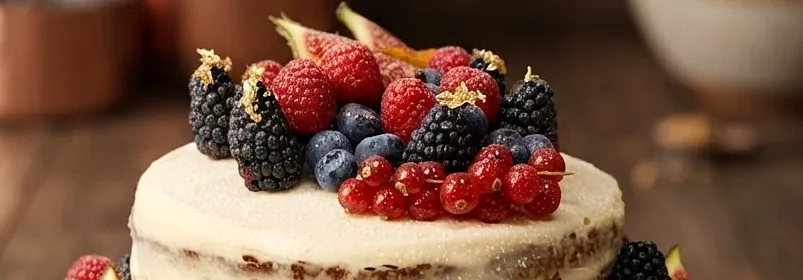
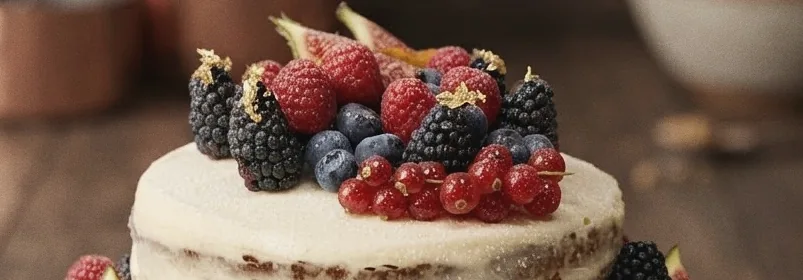
Push the photo grading much further — first pass was imperceptible
Compared before/after directly: the previous adjustment (contrast
1.03, color 1.04, light grain) was too conservative to actually see.
This time contrast and saturation go BELOW 1 instead of a mild boost
(0.88 / 0.86), sharpening is cut way down, and grain is 2x more
visible — the flatter, softer, grainier result now reads clearly
differently from the original glossy-studio version side by side.

Claude-Session: https://claude.ai/code/session_01MSnGieFbkp9mECTvhtS4Wc

diff --git a/maison-suzi/tools/process_photos.py b/maison-suzi/tools/process_photos.py
@@ -23,21 +23,27 @@ def grade(im: Image.Image) -> Image.Image:
     im = ImageOps.exif_transpose(im).convert("RGB")
     # Subtle warmth shift toward the site's gold/chocolate palette
     r, g, b = im.split()
-    r = r.point(lambda v: min(255, int(v * 1.025)))
-    b = b.point(lambda v: int(v * 0.975))
+    r = r.point(lambda v: min(255, int(v * 1.02)))
+    b = b.point(lambda v: int(v * 0.98))
     im = Image.merge("RGB", (r, g, b))
-    # Softer than before on purpose: the old settings (contrast 1.08, color 1.14,
-    # a strong unsharp pass) pushed these into "glossy stock photo" territory,
-    # which reads as generic rather than "hecho en casa". Less punch, more grain.
-    im = ImageEnhance.Contrast(im).enhance(1.03)
-    im = ImageEnhance.Color(im).enhance(1.04)
-    im = im.filter(ImageFilter.UnsharpMask(radius=1.2, percent=28, threshold=3))
+    # A first pass at this (contrast 1.03, color 1.04) turned out too subtle to
+    # actually see. The real issue isn't color anyway — it's that the source
+    # photo is lit and staged like a studio shoot (dramatic rim light, propped
+    # bokeh background); grading can only push against that, not undo it. So:
+    # push much harder. Flatten the contrast well below 1 (studio shots lean on
+    # deep blacks and blown highlights — a phone photo in a kitchen doesn't),
+    # desaturate below 1 instead of boosting, and make the grain visible instead
+    # of barely-there.
+    im = ImageEnhance.Contrast(im).enhance(0.88)
+    im = ImageEnhance.Color(im).enhance(0.86)
+    im = ImageEnhance.Brightness(im).enhance(1.04)
+    im = im.filter(ImageFilter.UnsharpMask(radius=1.0, percent=15, threshold=4))
     im = add_grain(im)
     return im
 
-def add_grain(im: Image.Image, sigma: int = 18, amount: float = 0.10) -> Image.Image:
-    """A light film-like grain so the photo reads as a real capture instead of
-    a too-clean render — subtle, felt more than seen."""
+def add_grain(im: Image.Image, sigma: int = 22, amount: float = 0.22) -> Image.Image:
+    """Visible film-like grain so the photo reads as a real capture instead of
+    a too-clean render."""
     noise = Image.effect_noise(im.size, sigma).convert("RGB")
     textured = ImageChops.overlay(im, noise)
     return Image.blend(im, textured, amount)
